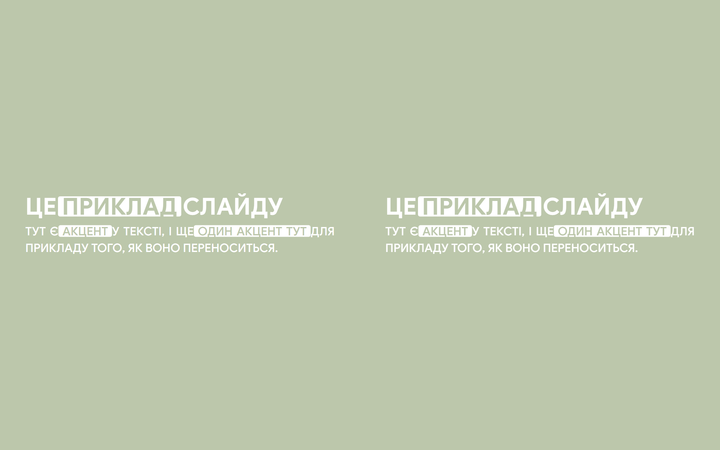
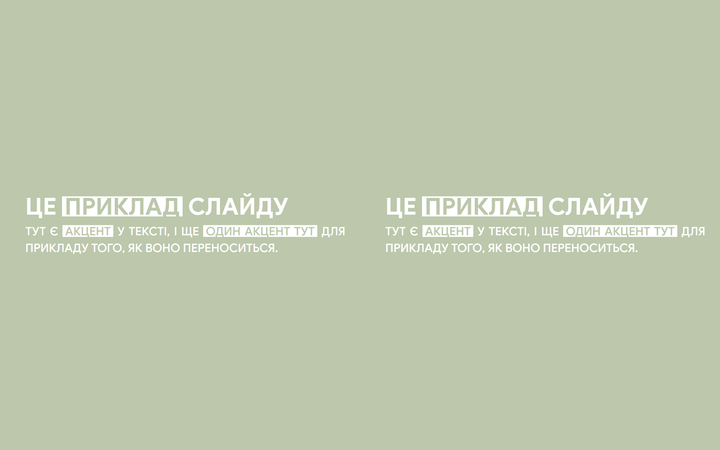
carousel-lab: accent chip polish + toolbar placement
- Accent chip: straight corners (rx=0), tighter padding (8px), and a real space
  kept on each side of the run — the chip no longer swallows the inter-word
  spaces (a "double space": one empty, one where the accent starts).
- «Акцент» toolbar now renders BELOW the selection so the phone's native
  Cut/Copy callout (which appears above the selection) doesn't cover it.

Changed region(s): [[0.0611, 0.4356, 0.4889, 0.5289], [0.5806, 0.4356, 0.9778, 0.5289]]

diff --git a/lib/carousel-lab/buildSlideSvg.ts b/lib/carousel-lab/buildSlideSvg.ts
@@ -27,7 +27,7 @@ import {
   PARAGRAPH_GAP,
   type Slot,
 } from './tokens';
-import { layoutParagraphs, type Measure, type TextBlock } from './textLayout';
+import { layoutParagraphs, ACCENT_PAD, type Measure, type TextBlock } from './textLayout';
 import { CTA_ICON_PATHS } from './ctaIcons';
 
 export type Measurer = (text: string, fontPx: number, weight: number) => number;
@@ -76,14 +76,13 @@ function stackHeight(els: El[]): number {
 }
 
 // ── text emitters ────────────────────────────────────────────────────────────
-const ACCENT_PADX = 12;
 const ACCENT_PADY = 5;
 function emitBlock(block: TextBlock, topY: number, size: number, weight: number, color: string): string {
   const cap = size * CAP;
   const parts: string[] = [];
   for (const line of block.lines) {
     const by = topY + line.baseline;
-    // White chips behind each contiguous run of {accent} words (like bullets).
+    // White chips (straight corners) behind each contiguous run of *accent* words.
     let i = 0;
     while (i < line.words.length) {
       if (line.words[i].accent) {
@@ -91,10 +90,10 @@ function emitBlock(block: TextBlock, topY: number, size: number, weight: number,
         while (j < line.words.length && line.words[j].accent) j++;
         const first = line.words[i];
         const last = line.words[j - 1];
-        const left = first.x - ACCENT_PADX;
-        const right = last.x + last.w + ACCENT_PADX;
+        const left = first.x - ACCENT_PAD;
+        const right = last.x + last.w + ACCENT_PAD;
         parts.push(
-          `<rect x="${r2(left)}" y="${r2(by - cap - ACCENT_PADY)}" width="${r2(right - left)}" height="${r2(cap + 2 * ACCENT_PADY)}" rx="${CHIP.radius}" fill="${COLORS.chipFill}"/>`,
+          `<rect x="${r2(left)}" y="${r2(by - cap - ACCENT_PADY)}" width="${r2(right - left)}" height="${r2(cap + 2 * ACCENT_PADY)}" fill="${COLORS.chipFill}"/>`,
         );
         i = j;
       } else {

diff --git a/lib/carousel-lab/textLayout.ts b/lib/carousel-lab/textLayout.ts
@@ -18,6 +18,12 @@ type Tok = { text: string; accent: boolean };
 /** Cap height as a fraction of font size (see numbers/gap notes in buildSlideSvg). */
 const CAP_RATIO = 0.72;
 
+/** Horizontal padding of the accent chip (px). Also added as extra spacing on
+ *  each side of an accent run so the chip keeps a real empty space to the words
+ *  around it (a "double space": one empty, one where the accent starts) instead
+ *  of eating the inter-word space. Shared with the SVG emitter. */
+export const ACCENT_PAD = 8;
+
 /** Split a paragraph into words, tagging each word inside *asterisks* as accent.
  *  Stray/unclosed `*` stays as literal text so typing is never swallowed. */
 function tokenizeAccent(s: string): Tok[] {
@@ -122,12 +128,20 @@ function placeWords(
 
   const lineW = sum + spaceW * (words.length - 1);
   let x = align === 'center' ? marginX + Math.max(0, (maxWidth - lineW) / 2) : marginX;
+  // If the line starts with an accent word, inset by the chip padding so the
+  // chip's left edge lands on the margin (not left of it).
+  if (words[0].accent) x += ACCENT_PAD;
 
   const placed: PlacedWord[] = [];
-  words.forEach((w, i) => {
-    placed.push({ text: w.text, x: Math.round(x * 100) / 100, w: widths[i], accent: w.accent });
-    x += widths[i] + gap;
-  });
+  for (let i = 0; i < words.length; i++) {
+    if (i > 0) {
+      let g = gap;
+      // extra room on each side of an accent run (chip padding), keeping a real space
+      if (words[i].accent !== words[i - 1].accent) g += ACCENT_PAD;
+      x += widths[i - 1] + g;
+    }
+    placed.push({ text: words[i].text, x: Math.round(x * 100) / 100, w: widths[i], accent: words[i].accent });
+  }
   return placed;
 }
 

diff --git a/components/carousel-lab/AccentField.tsx b/components/carousel-lab/AccentField.tsx
@@ -50,7 +50,7 @@ export default function AccentField({
   inputClassName?: string;
 }) {
   const ref = useRef<El>(null);
-  const [tb, setTb] = useState<{ top: number; left: number } | null>(null);
+  const [tb, setTb] = useState<{ top: number; left: number; height: number } | null>(null);
   const [mounted, setMounted] = useState(false);
   useEffect(() => setMounted(true), []);
 
@@ -61,7 +61,7 @@ export default function AccentField({
     const e = el.selectionEnd;
     if (s == null || e == null || s === e) { setTb(null); return; }
     const c = caretCoords(el, Math.round((s + e) / 2));
-    setTb({ top: c.top, left: c.left });
+    setTb({ top: c.top, left: c.left, height: c.height });
   }, []);
 
   useEffect(() => {
@@ -123,7 +123,9 @@ export default function AccentField({
       {multiline ? <textarea rows={rows} {...common} /> : <input {...common} />}
       {mounted && tb
         ? createPortal(
-            <div style={{ position: 'fixed', top: tb.top - 46, left: tb.left, transform: 'translateX(-50%)', zIndex: 1000 }}>
+            // Placed BELOW the selection so the phone's native Cut/Copy callout
+            // (which appears above the selection) doesn't cover it.
+            <div style={{ position: 'fixed', top: tb.top + tb.height + 10, left: tb.left, transform: 'translateX(-50%)', zIndex: 1000 }}>
               <button
                 type="button"
                 onMouseDown={(e) => { e.preventDefault(); toggle(); }}
